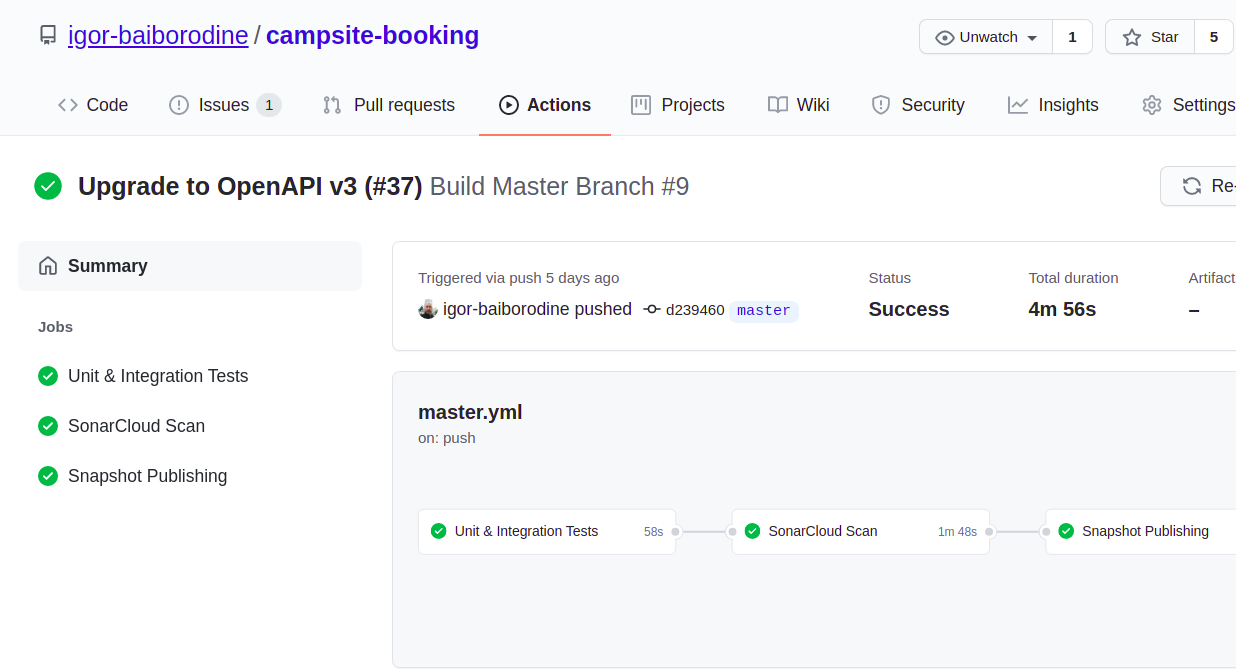
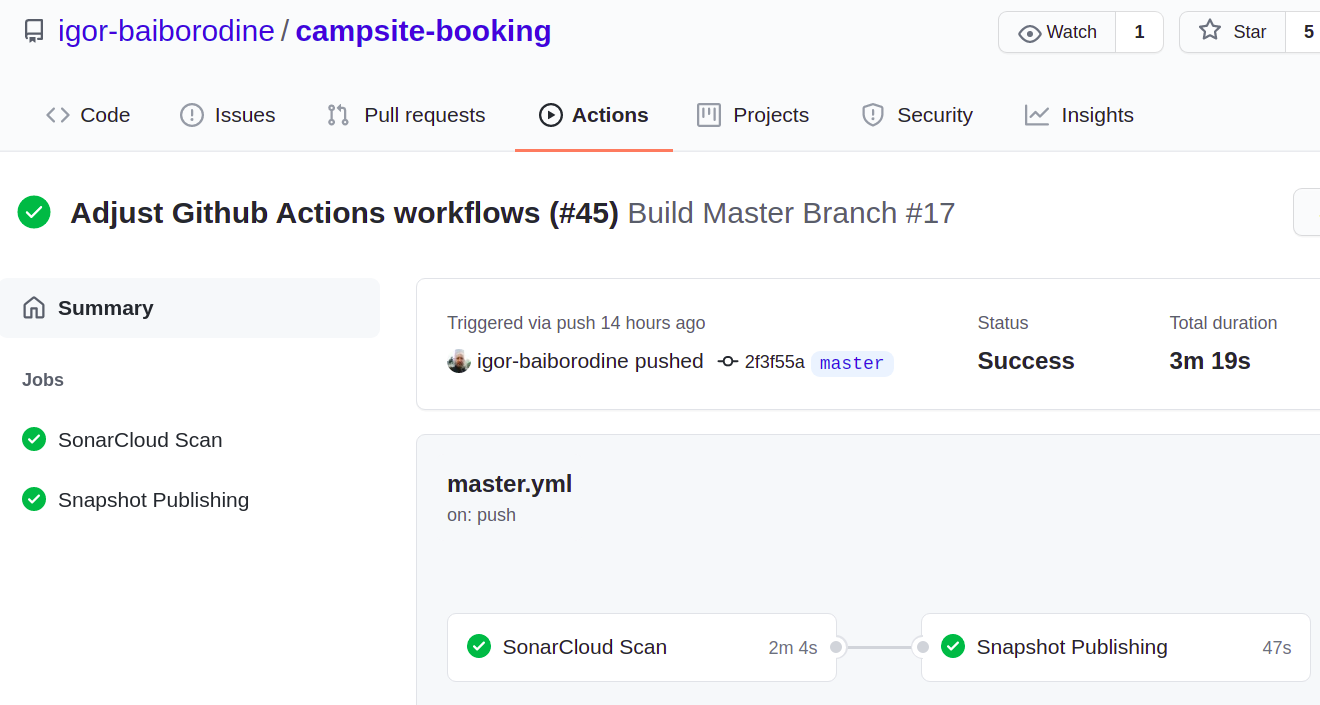
Feature/update readme (#46)
Update README.md

diff --git a/README.md b/README.md
@@ -78,12 +78,12 @@ Continuous integration is implemented using GitHub Actions, and it includes the 
 ![GitHub Actions](/readme/github-actions.png)
 
 ### Build on Pull Request
-This workflow is executed automatically on any pull request and consists of the `SonarCloud Scan` job:
+This workflow is executed automatically on any pull request and consists of the `Unit & Integrations Tests` and `SonarCloud Scan` job:
 
 ![Build on Pull Request Workflow](/readme/github-actions-build-on-pull-request.png) 
 
 ### Build Master Branch
-This workflow is executed automatically on any commit to the `master` branch and consists of the `Unit & Integrations Tests`, `SonarCloud Scan`, and `Snapshot Publishing` jobs:
+This workflow is executed automatically on any commit to the `master` branch and consists of the `SonarCloud Scan` and `Snapshot Publishing` jobs:
 
 ![Build Master Branch Workflow](/readme/github-actions-build-master-branch.png)
 
@@ -151,7 +151,7 @@ Fill the login form as follows and click on Connect:
 ![H2 Console Main View](/readme/h2-console-main-view.png)
 
 ### Concurrent Bookings Creation
-Note: should be executed with the `mysql` active profile
+**Note**: should be executed with the `mysql` active profile
 
 Start an instance of Campsite Booking API and execute the concurrent-bookings-test.sh script to simulate concurrent booking creation for the same booking dates:
 ```bash
